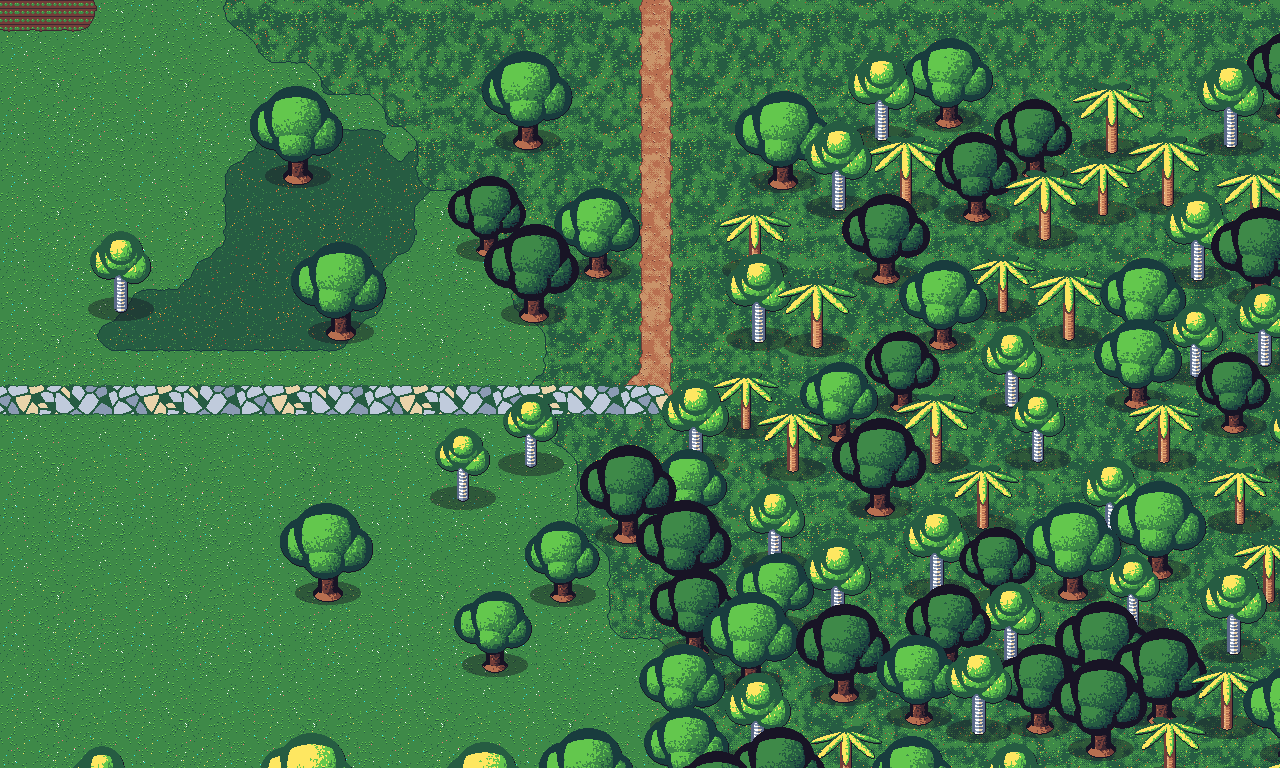
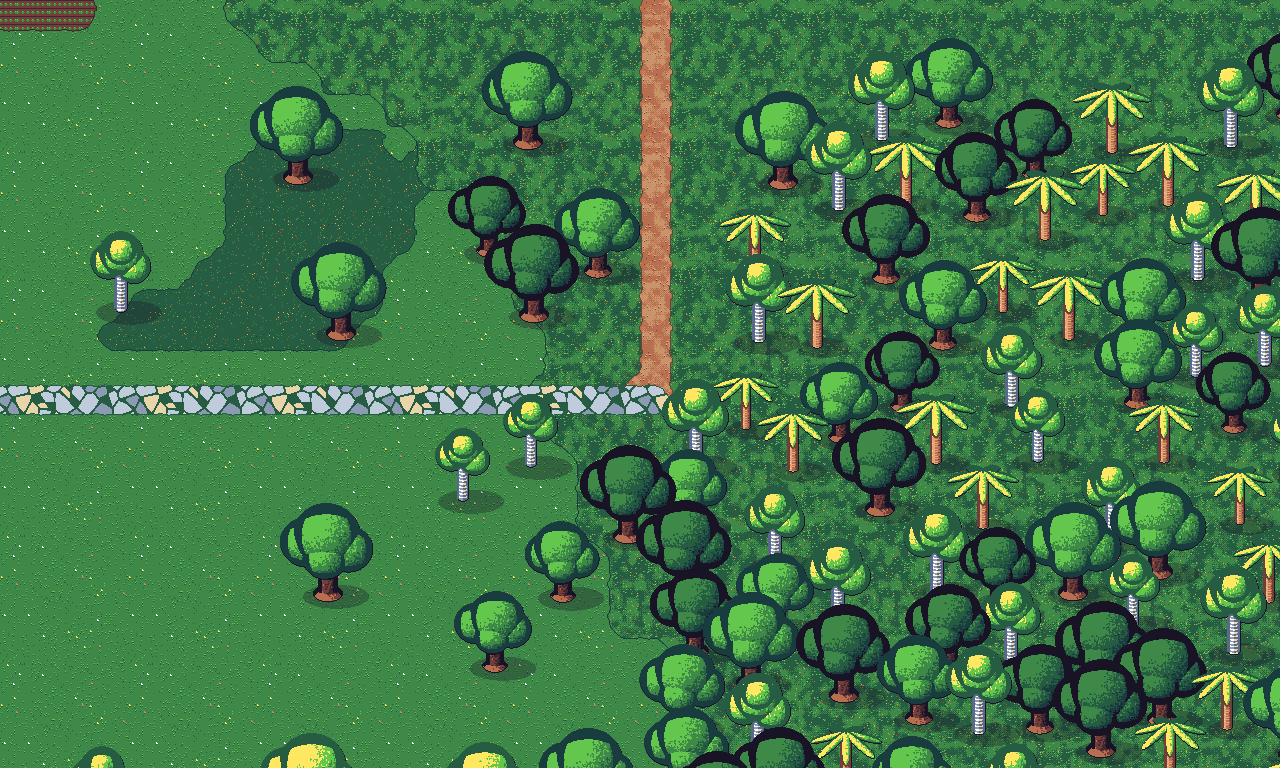
Revisione arte 3.11 e 3.12: fiorellini nell'erba, ombre degli oggetti in proporzione
Claude-Session: https://claude.ai/code/session_014ycMSkFAn8ixUvbSfrqtAR

diff --git a/tools/art/forge3d/terrain.py b/tools/art/forge3d/terrain.py
@@ -68,7 +68,7 @@ TERRAINS = {
                          level=0.6, anim=4, cresta="grey"),
     "sand": dict(ramp=["tan", "cream", "cream", "skin_l"], period=4, dither=0.5, detail="dots", rim="dark", rimc="orange_d", level=2),
     "mud": dict(ramp=["brown_dd", "brown_d", "brown_d", "brown"], period=3, dither=0.6, detail="puddles", rim="dark", level=3),
-    "grass": dict(ramp=["green_d", "green_m", "green_m", "green"], period=4, dither=0.5, detail="tufts", rim="dark", rimc="green_d", level=4,
+    "grass": dict(fiori=["white", "yellow", "pink"], ramp=["green_d", "green_m", "green_m", "green"], period=4, dither=0.5, detail="tufts", rim="dark", rimc="green_d", level=4,
                   contrast=0.45),
     "dry_grass": dict(ramp=["brown_d", "#8a7a38", "#b3a050", "#cdbb64"], period=4, dither=0.5, detail="tufts", rim="dark", rimc="brown", level=5, contrast=0.45),
     "forest": dict(ramp=["teal_d", "green_d", "green_d", "green_m"], period=4, dither=0.5, detail="leaves", rim="dark", rimc="teal_d", level=6, contrast=0.45),
@@ -278,9 +278,11 @@ def _texture(name, S, Z, seed, frame, nframes, variante):
         for _ in range(Z * Z // 22):
             px, py = rng.randint(Z), rng.randint(Z)
             put(px, py, 0); put(px, py - 1, n - 1) if rng.rand() < .7 else None
-        for _ in range(Z * Z // 160):
-            px, py = rng.randint(Z), rng.randint(Z)
-            img[py, px] = _rgb(["white", "yellow", "pink", "cyan"][rng.randint(4)]) if name == "grass" else img[py, px]
+        fiori = d.get("fiori", [])                         # fiorellini di 3 pixel, rari (prima puntini singoli)
+        for _ in range(Z * Z // 700 if fiori else 0):
+            px, py, c = rng.randint(Z), rng.randint(Z), _rgb(fiori[rng.randint(len(fiori))])
+            img[py % Z, px % Z] = img[py % Z, (px + 1) % Z] = img[(py - 1) % Z, px % Z] = c
+            img[(py + 1) % Z, px % Z] = _rgb(ramp[0])
     elif detail == "leaves":
         for _ in range(Z * Z // 30):
             px, py = rng.randint(Z), rng.randint(Z)

diff --git a/tools/art/forge3d/engine.py b/tools/art/forge3d/engine.py
@@ -203,7 +203,8 @@ def _tex(tex, pl):
 
 def render(insts, size=(32, 32), ppu=1.0, ss=4, pitch=32.0, foot=(0.5, 0.9), light=LIGHT,
            outline="selout", outline_color="#181425", inner_lines=True, inner_thr=1.0,
-           cleanup=True, shadow=True, shadow_r=(0.34, 0.14), cover=0.4, levels_bias=0.0,
+           cleanup=True, shadow=True, shadow_r=(0.34, 0.14), cover=0.4, levels_bias=0.0, shadow_off=(0.0, 0.0),
+           shadow_a=105,
            ambient=0.12, mat_resolver=None):
     """Disegna le forme e ritorna un array RGBA uint8 (H, W, 4).
 
@@ -328,7 +329,7 @@ def render(insts, size=(32, 32), ppu=1.0, ss=4, pitch=32.0, foot=(0.5, 0.9), lig
         fin = _cleanup(fin, mats)
 
     return _compose(fin, depth, mats, W, H, ppu, foot, outline, outline_color, inner_lines, inner_thr,
-                    shadow, shadow_r)
+                    shadow, shadow_r, shadow_off, shadow_a)
 
 
 def _neigh4(a, fill=-1):
@@ -359,7 +360,7 @@ def _cleanup(fin, mats):
 
 
 def _compose(fin, depth, mats, W, H, ppu, foot, outline, outline_color, inner_lines, inner_thr,
-             shadow, shadow_r):
+             shadow, shadow_r, shadow_off=(0.0, 0.0), shadow_a=105):
     rgba = np.zeros((H, W, 4), np.uint8)
     opaque = fin >= 0
     mi = np.where(opaque, fin // MAXLV, 0)
@@ -413,10 +414,10 @@ def _compose(fin, depth, mats, W, H, ppu, foot, outline, outline_color, inner_li
 
     if shadow:
         W_, H_ = W, H
-        cx, cy = foot[0] * W_, foot[1] * H_
         rx, ry = shadow_r[0] * W_, shadow_r[1] * W_
+        cx, cy = foot[0] * W_ + shadow_off[0] * rx, foot[1] * H_ + shadow_off[1] * ry   # spostata via dalla luce
         yy, xx = np.mgrid[0:H_, 0:W_]
         e = ((xx + 0.5 - cx) / rx) ** 2 + ((yy + 0.5 - cy) / ry) ** 2 <= 1.0
         free = e & (rgba[..., 3] == 0)
-        rgba[free] = (24, 20, 37, 105)
+        rgba[free] = (24, 20, 37, shadow_a)
     return rgba

diff --git a/tools/art/forge3d/worldrender.py b/tools/art/forge3d/worldrender.py
@@ -38,8 +38,11 @@ def object_sprite(o, S=TILE):
         cw, ch, foot = S, S, 0.5
     else:
         return None
+    # ombra in proporzione all'oggetto (chioma, tronco, sasso), chiara e spostata in basso a destra (luce in alto a
+    # sinistra): revisione 3.12
+    sr = {"dead": (0.06, 0.03), "palm": (0.12, 0.045)}.get(o.get("kind"), (0.15, 0.055)) if t == "tree" else (0.3, 0.12)
     img = render(r.instances({}, 180), size=(cw, ch), ppu=1.0, foot=(0.5, foot), shadow=(t not in ("bridge", "scoglio")),
-                 shadow_r=(0.15, 0.055) if t == "tree" else (0.34, 0.14))     # ombra grande quanto la chioma
+                 shadow_r=sr, shadow_off=(0.25, 0.3), shadow_a=80)
     if t == "scoglio":
         img = _sommerso(img, int(ch * foot) - max(2, int(3 * k)), o["seed"])
     _cache[key] = (img, cw // 2, int(ch * foot))

diff --git a/arte/revisione_arte.md b/arte/revisione_arte.md
@@ -291,14 +291,18 @@ Legenda: 🔴 alta (rovina la leggibilità o va decisa prima del Blocco C/D) ·
   quota più basso (cordolo di pietra ai lati, gradino dove comincia), grate di metallo (`lamiera`) agli
   incroci; il canale non tocca mai la roccia e non passa sotto ingressi e boss.
 
-### 🟢 3.11 Puntini colorati nell'erba
+### ✅ 3.11 Puntini colorati nell'erba — FATTO (2026-10-14)
 - Pixel singoli ciano, rosa e bianchi sparsi: a dimensione vera sporcano.
   **Correggere:** fiori a gruppetti di 2–3 pixel, colori della regione, meno frequenti.
+  **Fatto:** fiorellini di 3 pixel (bianco, giallo, rosa; niente ciano), uno ogni 700 pixel quadrati invece di
+  uno ogni 160, colori nel campo `fiori` della riga del terreno.
 
-### 🟢 3.12 Ombre degli oggetti
+### ✅ 3.12 Ombre degli oggetti — FATTO (2026-10-14)
 - Ellisse uguale per tutti, 4 volte più larga del tronco per gli alberi secchi, scura.
   **Correggere:** ombra in proporzione all'oggetto, più chiara, spostata verso il basso a
   destra (luce in alto a sinistra).
+  **Fatto:** `render(shadow_off, shadow_a)` (default invariati per i personaggi); oggetti con ombra alpha 80
+  spostata in basso a destra, larga quanto la chioma (secchi: quanto il tronco; palme più strette).
 
 ### 🟢 3.13 Strade della città tutte a griglia
 - Anche il centro antico e i bassifondi sono una scacchiera perfetta.
